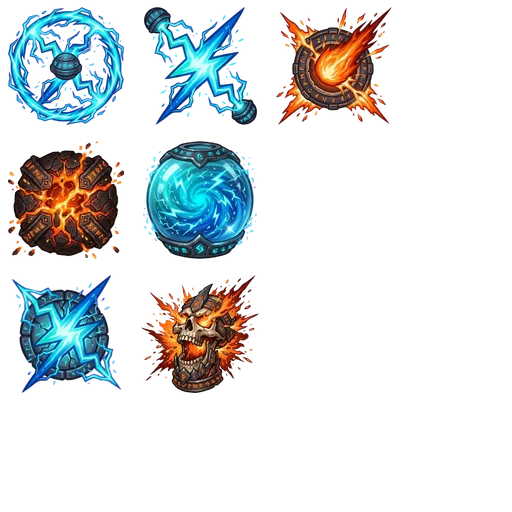
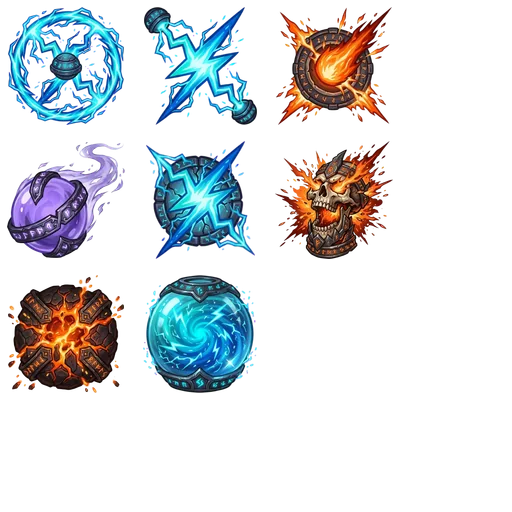
T-026 rodada 13: icon_ghost_ball (BRF-028)
Claude-Session: https://claude.ai/code/session_01EN3RX7GrhZzLgyZNfCYpmL

Changed region(s): [[0.0, 0.2812, 0.25, 0.7812], [0.2812, 0.25, 0.5, 0.7812], [0.5312, 0.2812, 0.7812, 0.5312]]

diff --git a/art-source/preview.html b/art-source/preview.html
@@ -11,7 +11,7 @@ body.hit .hb::after{content:"";position:absolute;inset:4%;border:1px dashed #00e
 </style></head><body>
 <h1>RuneSling — assets</h1>
 <label><input type="checkbox" onchange="document.body.classList.toggle('hit',this.checked)"> mostrar círculo 92% (hitbox) e centro</label>
-<p>Faltando (12): icon_ignite, icon_ghost_ball, icon_ricochet_crit, icon_wall_clone, icon_arcane_sight, icon_extra_orb, icon_power_surge, icon_bastion_heal, icon_gold_greed, floor_crypt, wall_trim_crypt, app_icon</p>
+<p>Faltando (11): icon_ignite, icon_ricochet_crit, icon_wall_clone, icon_arcane_sight, icon_extra_orb, icon_power_surge, icon_bastion_heal, icon_gold_greed, floor_crypt, wall_trim_crypt, app_icon</p>
 <main>
 <figure data-key="boss_obsidian"><div class="spr hb" style="width:384px;height:384px;background:url('../public/assets/atlases/enemies.webp?v=f1924fb8') -2px -2px"></div><figcaption>boss_obsidian <small>enemies 384×384</small></figcaption></figure>
 <figure data-key="enemy_bomb"><div class="spr hb" style="width:256px;height:256px;background:url('../public/assets/atlases/enemies.webp?v=f1924fb8') -392px -2px"></div><figcaption>enemy_bomb <small>enemies 256×256</small></figcaption></figure>
@@ -25,13 +25,14 @@ body.hit .hb::after{content:"";position:absolute;inset:4%;border:1px dashed #00e
 <figure data-key="obstacle_bumper_rune"><div class="spr hb" style="width:192px;height:192px;background:url('../public/assets/atlases/enemies.webp?v=f1924fb8') -264px -788px"></div><figcaption>obstacle_bumper_rune <small>enemies 192×192</small></figcaption></figure>
 <figure data-key="obstacle_pillar_obsidian"><div class="spr hb" style="width:192px;height:192px;background:url('../public/assets/atlases/enemies.webp?v=f1924fb8') -916px -2px"></div><figcaption>obstacle_pillar_obsidian <small>enemies 192×192</small></figcaption></figure>
 <figure data-key="obstacle_ring_multiplier"><div class="spr hb" style="width:192px;height:192px;background:url('../public/assets/atlases/enemies.webp?v=f1924fb8') -916px -200px"></div><figcaption>obstacle_ring_multiplier <small>enemies 192×192</small></figcaption></figure>
-<figure data-key="icon_bumper_shock"><div class="spr hb" style="width:128px;height:128px;background:url('../public/assets/atlases/icons.webp?v=b651a9ab') -2px -2px"></div><figcaption>icon_bumper_shock <small>icons 128×128</small></figcaption></figure>
-<figure data-key="icon_chain_lightning"><div class="spr hb" style="width:128px;height:128px;background:url('../public/assets/atlases/icons.webp?v=b651a9ab') -136px -2px"></div><figcaption>icon_chain_lightning <small>icons 128×128</small></figcaption></figure>
-<figure data-key="icon_fire_splash"><div class="spr hb" style="width:128px;height:128px;background:url('../public/assets/atlases/icons.webp?v=b651a9ab') -270px -2px"></div><figcaption>icon_fire_splash <small>icons 128×128</small></figcaption></figure>
-<figure data-key="icon_molten_core"><div class="spr hb" style="width:128px;height:128px;background:url('../public/assets/atlases/icons.webp?v=b651a9ab') -2px -136px"></div><figcaption>icon_molten_core <small>icons 128×128</small></figcaption></figure>
-<figure data-key="icon_static_crit"><div class="spr hb" style="width:128px;height:128px;background:url('../public/assets/atlases/icons.webp?v=b651a9ab') -2px -270px"></div><figcaption>icon_static_crit <small>icons 128×128</small></figcaption></figure>
-<figure data-key="icon_storm_orb"><div class="spr hb" style="width:128px;height:128px;background:url('../public/assets/atlases/icons.webp?v=b651a9ab') -136px -136px"></div><figcaption>icon_storm_orb <small>icons 128×128</small></figcaption></figure>
-<figure data-key="icon_supernova"><div class="spr hb" style="width:128px;height:128px;background:url('../public/assets/atlases/icons.webp?v=b651a9ab') -136px -270px"></div><figcaption>icon_supernova <small>icons 128×128</small></figcaption></figure>
+<figure data-key="icon_bumper_shock"><div class="spr hb" style="width:128px;height:128px;background:url('../public/assets/atlases/icons.webp?v=77b6186f') -2px -2px"></div><figcaption>icon_bumper_shock <small>icons 128×128</small></figcaption></figure>
+<figure data-key="icon_chain_lightning"><div class="spr hb" style="width:128px;height:128px;background:url('../public/assets/atlases/icons.webp?v=77b6186f') -136px -2px"></div><figcaption>icon_chain_lightning <small>icons 128×128</small></figcaption></figure>
+<figure data-key="icon_fire_splash"><div class="spr hb" style="width:128px;height:128px;background:url('../public/assets/atlases/icons.webp?v=77b6186f') -270px -2px"></div><figcaption>icon_fire_splash <small>icons 128×128</small></figcaption></figure>
+<figure data-key="icon_ghost_ball"><div class="spr hb" style="width:128px;height:128px;background:url('../public/assets/atlases/icons.webp?v=77b6186f') -2px -136px"></div><figcaption>icon_ghost_ball <small>icons 128×128</small></figcaption></figure>
+<figure data-key="icon_molten_core"><div class="spr hb" style="width:128px;height:128px;background:url('../public/assets/atlases/icons.webp?v=77b6186f') -2px -270px"></div><figcaption>icon_molten_core <small>icons 128×128</small></figcaption></figure>
+<figure data-key="icon_static_crit"><div class="spr hb" style="width:128px;height:128px;background:url('../public/assets/atlases/icons.webp?v=77b6186f') -136px -136px"></div><figcaption>icon_static_crit <small>icons 128×128</small></figcaption></figure>
+<figure data-key="icon_storm_orb"><div class="spr hb" style="width:128px;height:128px;background:url('../public/assets/atlases/icons.webp?v=77b6186f') -136px -270px"></div><figcaption>icon_storm_orb <small>icons 128×128</small></figcaption></figure>
+<figure data-key="icon_supernova"><div class="spr hb" style="width:128px;height:128px;background:url('../public/assets/atlases/icons.webp?v=77b6186f') -270px -136px"></div><figcaption>icon_supernova <small>icons 128×128</small></figcaption></figure>
 <figure data-key="icon_chain_lightning"><img src="../public/assets/icons/icon_chain_lightning.webp?v=f87711a0" alt="icon_chain_lightning"><figcaption>icon_chain_lightning <small>icons/icon_chain_lightning.webp</small></figcaption></figure>
 <figure data-key="icon_bumper_shock"><img src="../public/assets/icons/icon_bumper_shock.webp?v=1d95e1a0" alt="icon_bumper_shock"><figcaption>icon_bumper_shock <small>icons/icon_bumper_shock.webp</small></figcaption></figure>
 <figure data-key="icon_static_crit"><img src="../public/assets/icons/icon_static_crit.webp?v=c7352891" alt="icon_static_crit"><figcaption>icon_static_crit <small>icons/icon_static_crit.webp</small></figcaption></figure>
@@ -39,8 +40,9 @@ body.hit .hb::after{content:"";position:absolute;inset:4%;border:1px dashed #00e
 <figure data-key="icon_fire_splash"><img src="../public/assets/icons/icon_fire_splash.webp?v=f3c56bfe" alt="icon_fire_splash"><figcaption>icon_fire_splash <small>icons/icon_fire_splash.webp</small></figcaption></figure>
 <figure data-key="icon_supernova"><img src="../public/assets/icons/icon_supernova.webp?v=359613c2" alt="icon_supernova"><figcaption>icon_supernova <small>icons/icon_supernova.webp</small></figcaption></figure>
 <figure data-key="icon_molten_core"><img src="../public/assets/icons/icon_molten_core.webp?v=2107be45" alt="icon_molten_core"><figcaption>icon_molten_core <small>icons/icon_molten_core.webp</small></figcaption></figure>
+<figure data-key="icon_ghost_ball"><img src="../public/assets/icons/icon_ghost_ball.webp?v=11bfe481" alt="icon_ghost_ball"><figcaption>icon_ghost_ball <small>icons/icon_ghost_ball.webp</small></figcaption></figure>
 </main>
 <h2>Atlases</h2>
 <main><figure><img class="sheet" src="../public/assets/atlases/enemies.webp?v=f1924fb8" alt="atlas enemies"><figcaption>atlas enemies 2048×1024</figcaption></figure>
-<figure><img class="sheet" src="../public/assets/atlases/icons.webp?v=b651a9ab" alt="atlas icons"><figcaption>atlas icons 512×512</figcaption></figure></main>
+<figure><img class="sheet" src="../public/assets/atlases/icons.webp?v=77b6186f" alt="atlas icons"><figcaption>atlas icons 512×512</figcaption></figure></main>
 </body></html>

diff --git a/docs/arte-prompts.md b/docs/arte-prompts.md
@@ -277,7 +277,7 @@ Generate one square 1:1 image. molten magma core, cracked rock sphere with glowi
 - Arquivo a devolver: `art-source/raw/icons/icon_ghost_ball.png`
 - Anexar no Gemini: `art-source/anchors/icon_anchor.png`
 - Fundo: white · tamanho final 128 px
-- Situação: pendente
+- Situação: **entregue**
 
 ```text
 Generate one square 1:1 image. translucent violet ghost orb with a faint spectral tail (#9C6BFF to #3E1F73). RPG skill icon, stylized hand-painted dark fantasy 2D game icon, one single central symbol, high contrast, crisp readable silhouette at 34 pixels, dark iron runic details, no frame, no border, no outer glow, no light bleeding outside the symbol, centered, no text, no letters, no numbers. Background: one solid flat pure white color (#FFFFFF) filling the whole canvas, no gradient, no shadow, no floor, no vignette, no texture. Use the attached image only as a style reference: match its rendering, brush texture, rim construction, lighting direction, contrast and level of detail exactly, but draw the new subject described above. Do not copy its subject.
